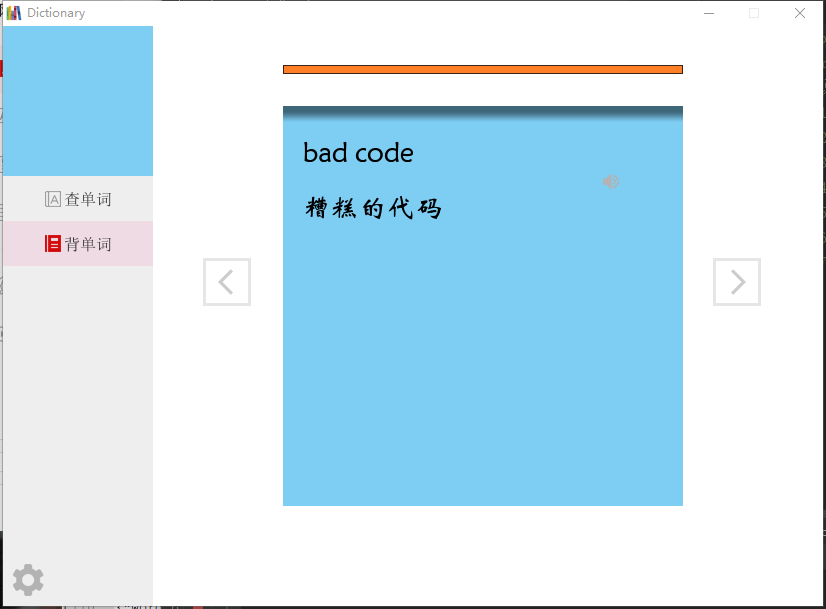
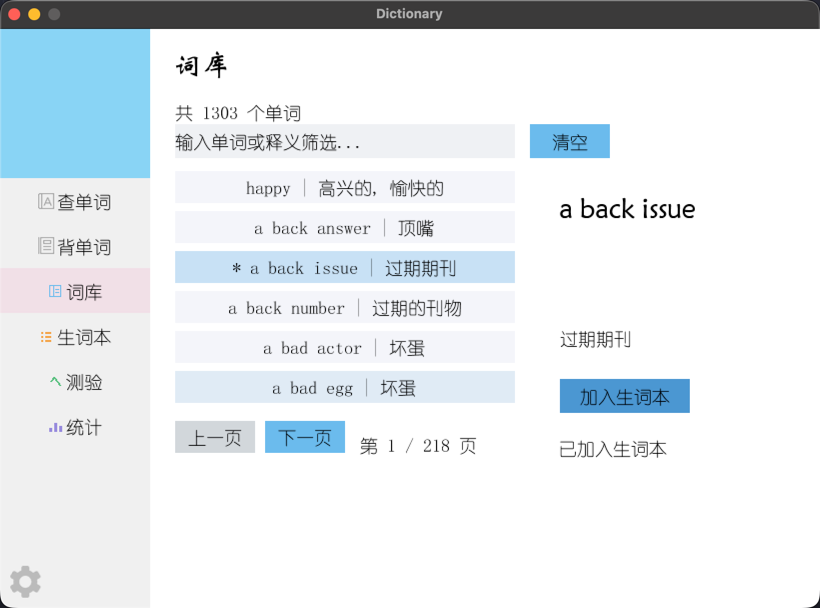
查单词/背单词接上真实词库, 去掉写死的假数据和那处经典笔误
老代码里最可惜的一件事: character.json 有 1300 多个词条, 但两个页面用的都是写死的数据。

查单词页(OptionOnePage):
- 原来是 4 个 if-else: happy / memory / 两个同学的名字 -> 都是写死的字符串,
  而 memory 这个词在词库里根本不存在(词库只有 happy)。
- 条件 `if (text != null || text != "")` 永远为真, 而且 String 用了 != 比较。
- 现在: WordBank.find() 精确匹配(忽略大小写/首尾空格) -> 给出完整释义(按宽度折行 + 截断);
  查不到时给"你是不是想找": 先包含匹配, 再按编辑距离猜拼错的英文(happpy -> happy);
  都没有才提示换拼写。答谢同学的那两条彩蛋和注释掉的一整段代码一起删了。
- showMessage() 每帧都会被调用, 所以加了 lastQuery 判断, 输入没变就不重复查。

背单词页(OptionTwoPage):
- 原来写死 3 个单词 Memory/Happy/Duang(其中 memory、duang 词库里也没有)。
- 现在用 WordBank.dailyCards(每日目标) 抽词: 以当天日期为随机种子, 同一天抽到同一批,
  关掉软件再打开进度条还对得上; 只从"释义能塞进卡片"的词里抽, 释义折行显示。
- 顺带把进度条那处 400/word.length 的整数除法改成浮点, 播放读音抽成 playWord()。

TextUtil 新增 wrap(): 中文按两个单位算宽度折行, 超行截断, 让固定宽度的释义不再溢出。
WordBank 新增 find()/suggest()/dailyCards()/nearest()(编辑距离); StudyData 新增 getDaySeed()。

diff --git a/core/src/com/mini/dictionary/ui/layout/page/OptionTwoPage.java b/core/src/com/mini/dictionary/ui/layout/page/OptionTwoPage.java
@@ -1,6 +1,5 @@
 package com.mini.dictionary.ui.layout.page;
 
-import com.badlogic.gdx.Audio;
 import com.badlogic.gdx.Gdx;
 import com.badlogic.gdx.audio.Sound;
 import com.badlogic.gdx.graphics.Texture;
@@ -13,6 +12,11 @@ import com.badlogic.gdx.utils.Disposable;
 import com.mini.dictionary.ui.button.ButtonFramework;
 import com.mini.dictionary.ui.layout.page.dao.OptionPageDao;
 import com.mini.dictionary.util.StudyData;
+import com.mini.dictionary.util.TextUtil;
+import com.mini.dictionary.util.WordBank;
+
+import java.util.ArrayList;
+import java.util.List;
 
 public class OptionTwoPage implements OptionPageDao, Disposable {
     private Stage stage;
@@ -38,8 +42,9 @@ public class OptionTwoPage implements OptionPageDao, Disposable {
 
     private Label wordLabel;
     private Label explainLabel;
-    private String word[] = {"Memory","Happy","Duang"};
-    private String wordExplain[] = {"n. 内存; 记忆", "adj. 幸福的; 高兴的;","你是猪"};
+    // 词表改成从 character.json 里按"每日目标"抽, 不再是写死的三个词
+    private List<WordBank.Word> cards = new ArrayList<WordBank.Word>();
+    private int cardGoal = -1; // 已经按哪个目标抽过词了
     private int count = 0;
     private int count1 = 0;
 
@@ -67,6 +72,24 @@ public class OptionTwoPage implements OptionPageDao, Disposable {
         createNotKnowButton();
         createProgress();
         createSoundButton();
+        loadCards();
+    }
+
+    /** 按"每日目标"从词库里抽今天要背的词; 同一天抽到的是同一批, 重启后进度条还对得上 */
+    private void loadCards() {
+        cardGoal = StudyData.getDailyGoal();
+        cards = WordBank.dailyCards(cardGoal);
+        count = 0;
+        count1 = 0;
+    }
+
+    /** 当前这张卡, 下标越界时兜底 */
+    private WordBank.Word currentCard() {
+        if (cards.isEmpty()) {
+            return null;
+        }
+        int index = Math.max(0, Math.min(count, cards.size() - 1));
+        return cards.get(index);
     }
 
     /** 向前翻页按钮 */
@@ -145,10 +168,13 @@ public class OptionTwoPage implements OptionPageDao, Disposable {
     /** Actor添加到舞台*/
     @Override
     public void addToStage() {
+        if (cardGoal != StudyData.getDailyGoal()) { // 设置里改了每日目标就重新抽词
+            loadCards();
+        }
         stage.addActor(wordCardImage);
         stage.addActor(wordLabel);
         stage.addActor(explainLabel);
-        if (count1 >= word.length) {
+        if (count1 >= cards.size()) {
             stage.addActor(backButton);
             stage.addActor(forWardButton);
         }
@@ -181,28 +207,40 @@ public class OptionTwoPage implements OptionPageDao, Disposable {
         }
         else if (notKnowButton.isChecked()) {
             StudyData.recordReview(false);
-            StudyData.addToNotebook(word[count], wordExplain[count]); // 新功能: 不认识的自动进生词本
+            WordBank.Word card = currentCard();
+            if (card != null) {
+                StudyData.addToNotebook(card.getWord(), card.getExplain()); // 新功能: 不认识的自动进生词本
+            }
             notKnowButton.setChecked(false);
         }
         else if (playSound.isChecked()) {
             playSound.setChecked(false);
-            try{
-                wordSound = Gdx.audio.newSound(Gdx.files.internal("sound/"+ word[count].toLowerCase() +".mp3"));
-            }catch (Exception e) {
-                wordSound = Gdx.audio.newSound(Gdx.files.internal("sound/noSound.mp3"));
+            WordBank.Word card = currentCard();
+            if (card != null) {
+                playWord(card.getWord());
             }
-            wordSound.play();
         }
 
         count = count < 0 ? 0 : count;
-        count = count >= word.length ? word.length-1 : count;
+        count = count >= cards.size() ? Math.max(0, cards.size() - 1) : count;
 
         // 显示单词
-        wordLabel.setText(word[count] + "\n\n");
-        explainLabel.setText(wordExplain[count]);
+        WordBank.Word card = currentCard();
+        wordLabel.setText(card == null ? "" : TextUtil.truncate(card.getWord(), 16) + "\n\n");
+        explainLabel.setText(card == null ? "" : TextUtil.wrap(card.getExplain(), 36, 4));
         // 进度条显示
-        if (count1 <= word.length)
-            progressKnow.setWidth(count1 * (400 / word.length));
+        if (count1 <= cards.size())
+            progressKnow.setWidth(count1 * (400f / Math.max(1, cards.size())));
+    }
+
+    /** 有 sound/<单词>.mp3 就放单词读音, 没有就放默认音效 */
+    private void playWord(String word) {
+        try {
+            wordSound = Gdx.audio.newSound(Gdx.files.internal("sound/" + word.trim().toLowerCase() + ".mp3"));
+        } catch (Exception e) {
+            wordSound = Gdx.audio.newSound(Gdx.files.internal("sound/noSound.mp3"));
+        }
+        wordSound.play();
     }
 
     @Override

diff --git a/core/src/com/mini/dictionary/util/WordBank.java b/core/src/com/mini/dictionary/util/WordBank.java
@@ -100,6 +100,107 @@ public final class WordBank {
         return pool.get(RANDOM.nextInt(pool.size()));
     }
 
+    /** 精确查词(忽略大小写和首尾空格), 查不到返回 null */
+    public static Word find(String text) {
+        if (text == null) {
+            return null;
+        }
+        String key = text.trim();
+        if (key.isEmpty()) {
+            return null;
+        }
+        for (Word word : all()) {
+            if (word.getWord().trim().equalsIgnoreCase(key)) {
+                return word;
+            }
+        }
+        return null;
+    }
+
+    /** 查不到时的"你是不是想找": 先按包含匹配, 还是没命中就按编辑距离猜拼错的英文 */
+    public static List<Word> suggest(String keyword, int limit) {
+        if (keyword == null || keyword.trim().isEmpty() || limit <= 0) {
+            return new ArrayList<Word>();
+        }
+        String key = keyword.trim().toLowerCase();
+        List<Word> result = new ArrayList<Word>();
+        for (Word word : all()) {
+            if (word.getWord().toLowerCase().contains(key)) {
+                result.add(word);
+                if (result.size() >= limit) {
+                    return result;
+                }
+            }
+        }
+        for (Word word : all()) {
+            if (word.getExplain().toLowerCase().contains(key) && !result.contains(word)) {
+                result.add(word);
+                if (result.size() >= limit) {
+                    return result;
+                }
+            }
+        }
+        return nearest(key, limit);
+    }
+
+    /** 按编辑距离找拼写最接近的几个词, 比如 memry -> memory */
+    private static List<Word> nearest(String key, int limit) {
+        int allowed = Math.max(1, key.length() / 4);
+        List<Word> candidates = new ArrayList<Word>();
+        List<Integer> distances = new ArrayList<Integer>();
+        for (Word word : all()) {
+            String spell = word.getWord().trim().toLowerCase();
+            if (spell.isEmpty() || Math.abs(spell.length() - key.length()) > allowed) {
+                continue;
+            }
+            int distance = distance(spell, key);
+            if (distance > allowed) {
+                continue;
+            }
+            int at = candidates.size();
+            for (int i = 0; i < distances.size(); i++) {
+                if (distance < distances.get(i)) {
+                    at = i;
+                    break;
+                }
+            }
+            candidates.add(at, word);
+            distances.add(at, distance);
+        }
+        return new ArrayList<Word>(candidates.subList(0, Math.min(limit, candidates.size())));
+    }
+
+    /** 编辑距离(滚动数组版) */
+    private static int distance(String left, String right) {
+        int[] previous = new int[right.length() + 1];
+        int[] current = new int[right.length() + 1];
+        for (int j = 0; j <= right.length(); j++) {
+            previous[j] = j;
+        }
+        for (int i = 1; i <= left.length(); i++) {
+            current[0] = i;
+            for (int j = 1; j <= right.length(); j++) {
+                int cost = left.charAt(i - 1) == right.charAt(j - 1) ? 0 : 1;
+                current[j] = Math.min(Math.min(current[j - 1] + 1, previous[j] + 1), previous[j - 1] + cost);
+            }
+            int[] swap = previous;
+            previous = current;
+            current = swap;
+        }
+        return previous[right.length()];
+    }
+
+    /**
+     * 今天要背的一批单词: 用当天日期当随机种子, 所以同一天抽到的永远是同一批,
+     * 关掉软件再打开进度条还对得上。只从"释义能塞进单词卡"的词里抽。
+     */
+    public static List<Word> dailyCards(int count) {
+        List<Word> pool = new ArrayList<Word>(quizPool());
+        Collections.shuffle(pool, new Random(StudyData.getDaySeed()));
+        int size = Math.max(1, Math.min(count, pool.size()));
+        return new ArrayList<Word>(pool.subList(0, size));
+    }
+
     private static void load() {
         List<Word> list = new ArrayList<Word>();
         try {

diff --git a/core/src/com/mini/dictionary/ui/layout/page/OptionOnePage.java b/core/src/com/mini/dictionary/ui/layout/page/OptionOnePage.java
@@ -13,8 +13,10 @@ import com.badlogic.gdx.scenes.scene2d.utils.TextureRegionDrawable;
 import com.badlogic.gdx.utils.Disposable;
 import com.mini.dictionary.ui.button.ButtonFramework;
 import com.mini.dictionary.ui.layout.page.dao.OptionPageDao;
+import com.mini.dictionary.util.TextUtil;
+import com.mini.dictionary.util.WordBank;
 
-import java.util.Date;
+import java.util.List;
 
 public class OptionOnePage implements OptionPageDao, Disposable {
     private Stage stage;
@@ -27,7 +29,7 @@ public class OptionOnePage implements OptionPageDao, Disposable {
     private TextField searchBox;
     private Label label;
     private Label dailySentenceLabel;
-    private Date date;
+    private String lastQuery; // showMessage 每帧都会被调用, 记一下上次查的词, 没变就不重复算
 
     private ButtonFramework query;
     private ImageTextButton queryButton;
@@ -39,7 +41,6 @@ public class OptionOnePage implements OptionPageDao, Disposable {
 
     @Override
     public void init() {
-        date = new Date(); // 在哪放个日期
         font = new BitmapFont(Gdx.files.internal("font/font18.fnt"),
                 Gdx.files.internal("font/font18.png"),false);
         label = new Label("",new Label.LabelStyle(font,null));
@@ -74,23 +75,40 @@ public class OptionOnePage implements OptionPageDao, Disposable {
         searchBox.setMessageText("请输入需要查询的单词...");
     }
 
+    /** 输入框内容变了(或者点了查询按钮/按了回车)才真去查词库 */
     public void showMessage() {
-//        if (Gdx.input.isKeyJustPressed(Input.Keys.ENTER) ||
-//                Gdx.input.isKeyJustPressed(Input.Keys.BACKSPACE) ||
-//                queryButton.isChecked() ) {
-//        }
-        if (searchBox.getText() != null || searchBox.getText() != "")
-            if (searchBox.getText().toLowerCase().equals("happy"))
-                label.setText("adj. 高兴的; 愉快的; 开心的;");
-            else if (searchBox.getText().toLowerCase().equals("memory"))
-                label.setText("n. 记忆,记忆力;内存,[计]存储器,回忆;");
-            else if (searchBox.getText().equals("赵鹏"))
-                label.setText("大帅哥");
-            else if (searchBox.getText().equals("慎东海"))
-                label.setText("大丑逼");
-            else
-                label.setText(searchBox.getText());
-        queryButton.setChecked(false);
+        String query = searchBox.getText() == null ? "" : searchBox.getText().trim();
+        boolean clicked = queryButton.isChecked() || Gdx.input.isKeyJustPressed(Input.Keys.ENTER);
+        if (queryButton.isChecked()) {
+            queryButton.setChecked(false);
+        }
+        if (!clicked && query.equals(lastQuery)) {
+            return;
+        }
+        lastQuery = query;
+        label.setText(lookup(query));
+    }
+
+    /** 先精确查, 查不到再给几个"你是不是想找" */
+    private String lookup(String query) {
+        if (query.isEmpty()) {
+            return "";
+        }
+        WordBank.Word word = WordBank.find(query);
+        if (word != null) {
+            return word.getWord() + "\n\n" + TextUtil.wrap(word.getExplain(), 60, 3);
+        }
+        List<WordBank.Word> hits = WordBank.suggest(query, 3);
+        String shortQuery = TextUtil.truncate(query, 16);
+        if (hits.isEmpty()) {
+            return "词库里没有 \"" + shortQuery + "\", 换个拼写试试?";
+        }
+        StringBuilder builder = new StringBuilder("没找到 \"" + shortQuery + "\", 你是不是想找:");
+        for (WordBank.Word hit : hits) {
+            builder.append("\n").append(hit.getWord()).append("   ")
+                    .append(TextUtil.truncate(hit.getBrief(), 20));
+        }
+        return builder.toString();
     }
 
     /** 光标*/

diff --git a/core/src/com/mini/dictionary/util/TextUtil.java b/core/src/com/mini/dictionary/util/TextUtil.java
@@ -1,5 +1,8 @@
 package com.mini.dictionary.util;
 
+import java.util.ArrayList;
+import java.util.List;
+
 /**
  * 文本处理小工具(新加的)。
  *
@@ -53,5 +56,60 @@ public final class TextUtil {
             return "0%";
         }
         return Math.round(part * 100f / total) + "%";
+    }
+
+    /** 中日韩字符按两个单位算宽度, 其它按一个(位图字体里全角字符差不多就是半角的两倍宽) */
+    private static boolean isWide(char c) {
+        return c >= 0x2E80;
+    }
+
+    /**
+     * 按显示宽度折行, 让释义能塞进单词卡/search 结果那种固定宽度的地方。
+     * 超过 maxLines 行就把最后一行结尾换成 ... , 免得文字溢出到别的控件上。
+     */
+    public static String wrap(String text, int unitsPerLine, int maxLines) {
+        String value = oneLine(text);
+        if (value.isEmpty() || unitsPerLine <= 0 || maxLines <= 0) {
+            return "";
+        }
+        List<String> lines = new ArrayList<String>();
+        StringBuilder line = new StringBuilder();
+        int units = 0;
+        int index = 0;
+        while (index < value.length()) {
+            char c = value.charAt(index);
+            int width = isWide(c) ? 2 : 1;
+            if (units + width > unitsPerLine) {
+                lines.add(line.toString().trim());
+                line.setLength(0);
+                units = 0;
+                if (lines.size() == maxLines) {
+                    break;
+                }
+                if (c == ' ') {
+                    index++;
+                    continue;
+                }
+            }
+            line.append(c);
+            units += width;
+            index++;
+        }
+        if (lines.size() < maxLines && line.length() > 0) {
+            lines.add(line.toString().trim());
+        }
+        if (index < value.length() && !lines.isEmpty()) {
+            int last = lines.size() - 1;
+            String tail = lines.get(last);
+            lines.set(last, (tail.length() > 2 ? tail.substring(0, tail.length() - 2) : tail) + "...");
+        }
+        StringBuilder result = new StringBuilder();
+        for (String item : lines) {
+            if (result.length() > 0) {
+                result.append('\n');
+            }
+            result.append(item);
+        }
+        return result.toString();
     }
 }

diff --git a/core/src/com/mini/dictionary/util/StudyData.java b/core/src/com/mini/dictionary/util/StudyData.java
@@ -50,6 +50,11 @@ public final class StudyData {
         return new SimpleDateFormat(DAY_PATTERN, Locale.CHINA).format(new Date());
     }
 
+    /** 今天的日期数字(比如 20260924), 给"每日单词"当随机种子: 同一天抽到同一批词 */
+    public static int getDaySeed() {
+        return Integer.parseInt(today().replace("-", ""));
+    }
+
     private static boolean isYesterday(String day) {
         if (day == null || day.isEmpty()) {
             return false;
